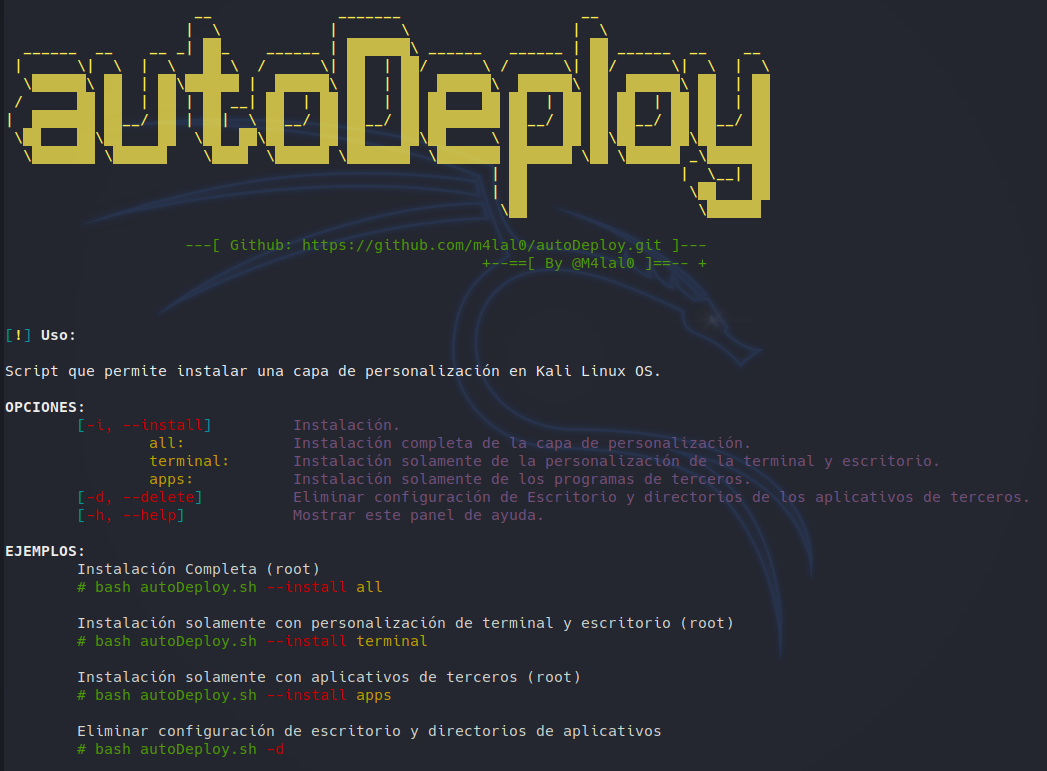
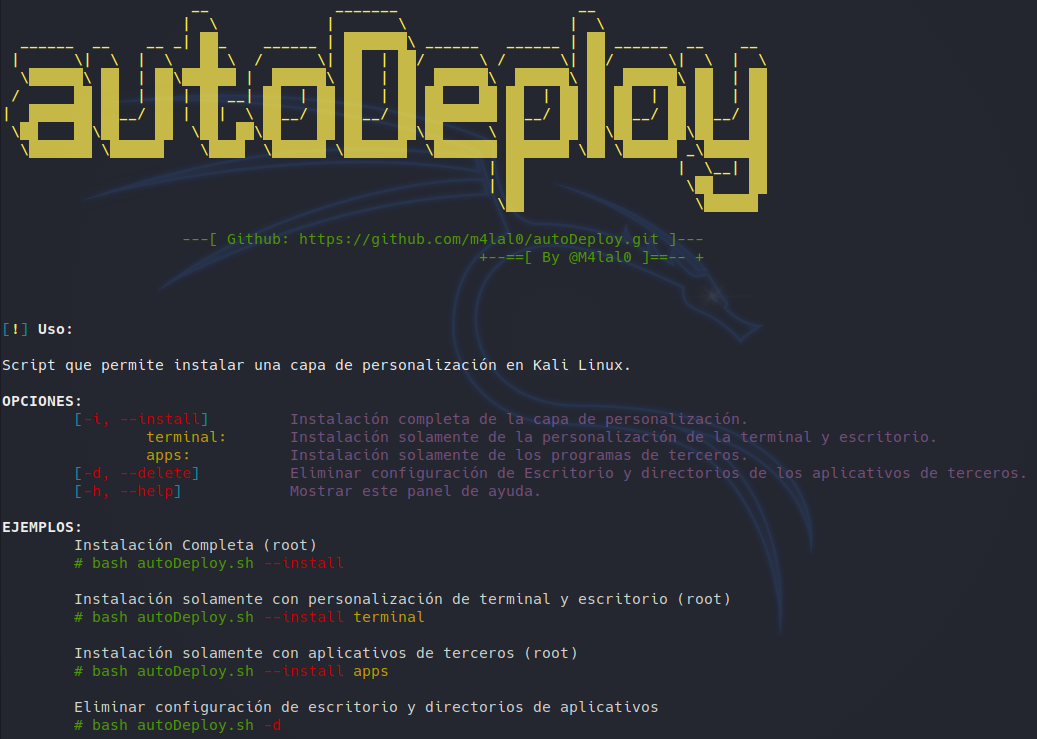
feat: update README

diff --git a/README.md b/README.md
@@ -36,7 +36,7 @@ Al ejecutarlo nos mostrará un panel de ayuda:
 El script cuenta con **3** modos de instalación:
 ##### Instalación completa
 ```bash
-./autoDeploy.sh --install all
+./autoDeploy.sh --install
 ```
 ##### Instalar personalización de terminal y escritorio xfce
 ```bash
